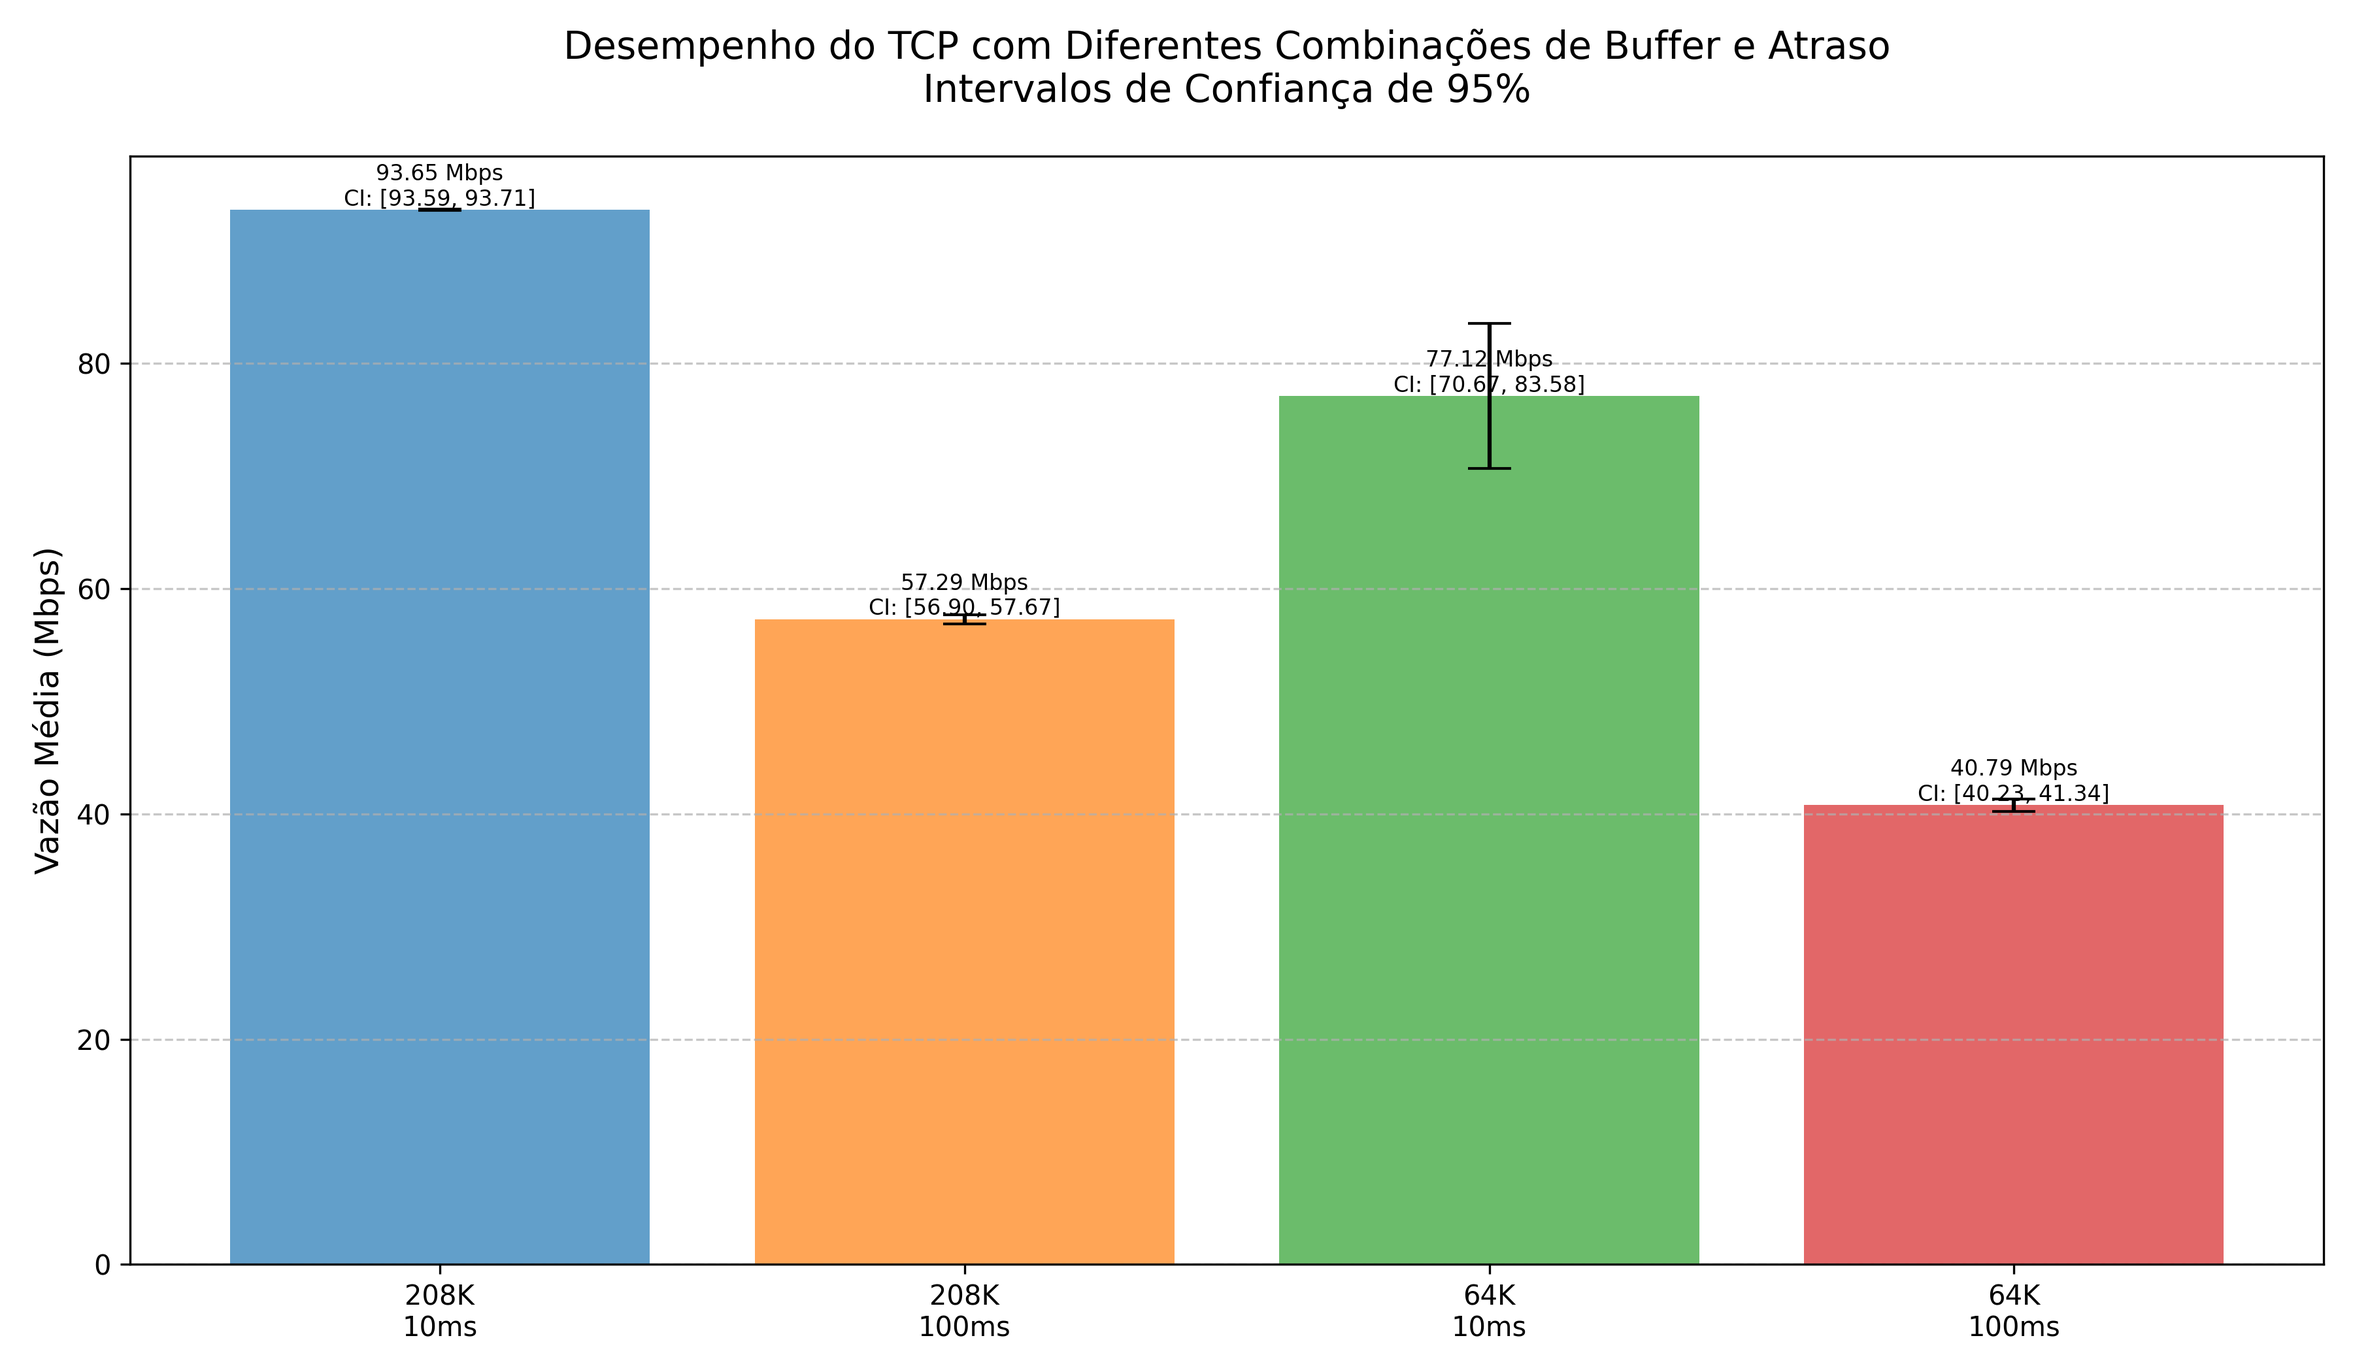
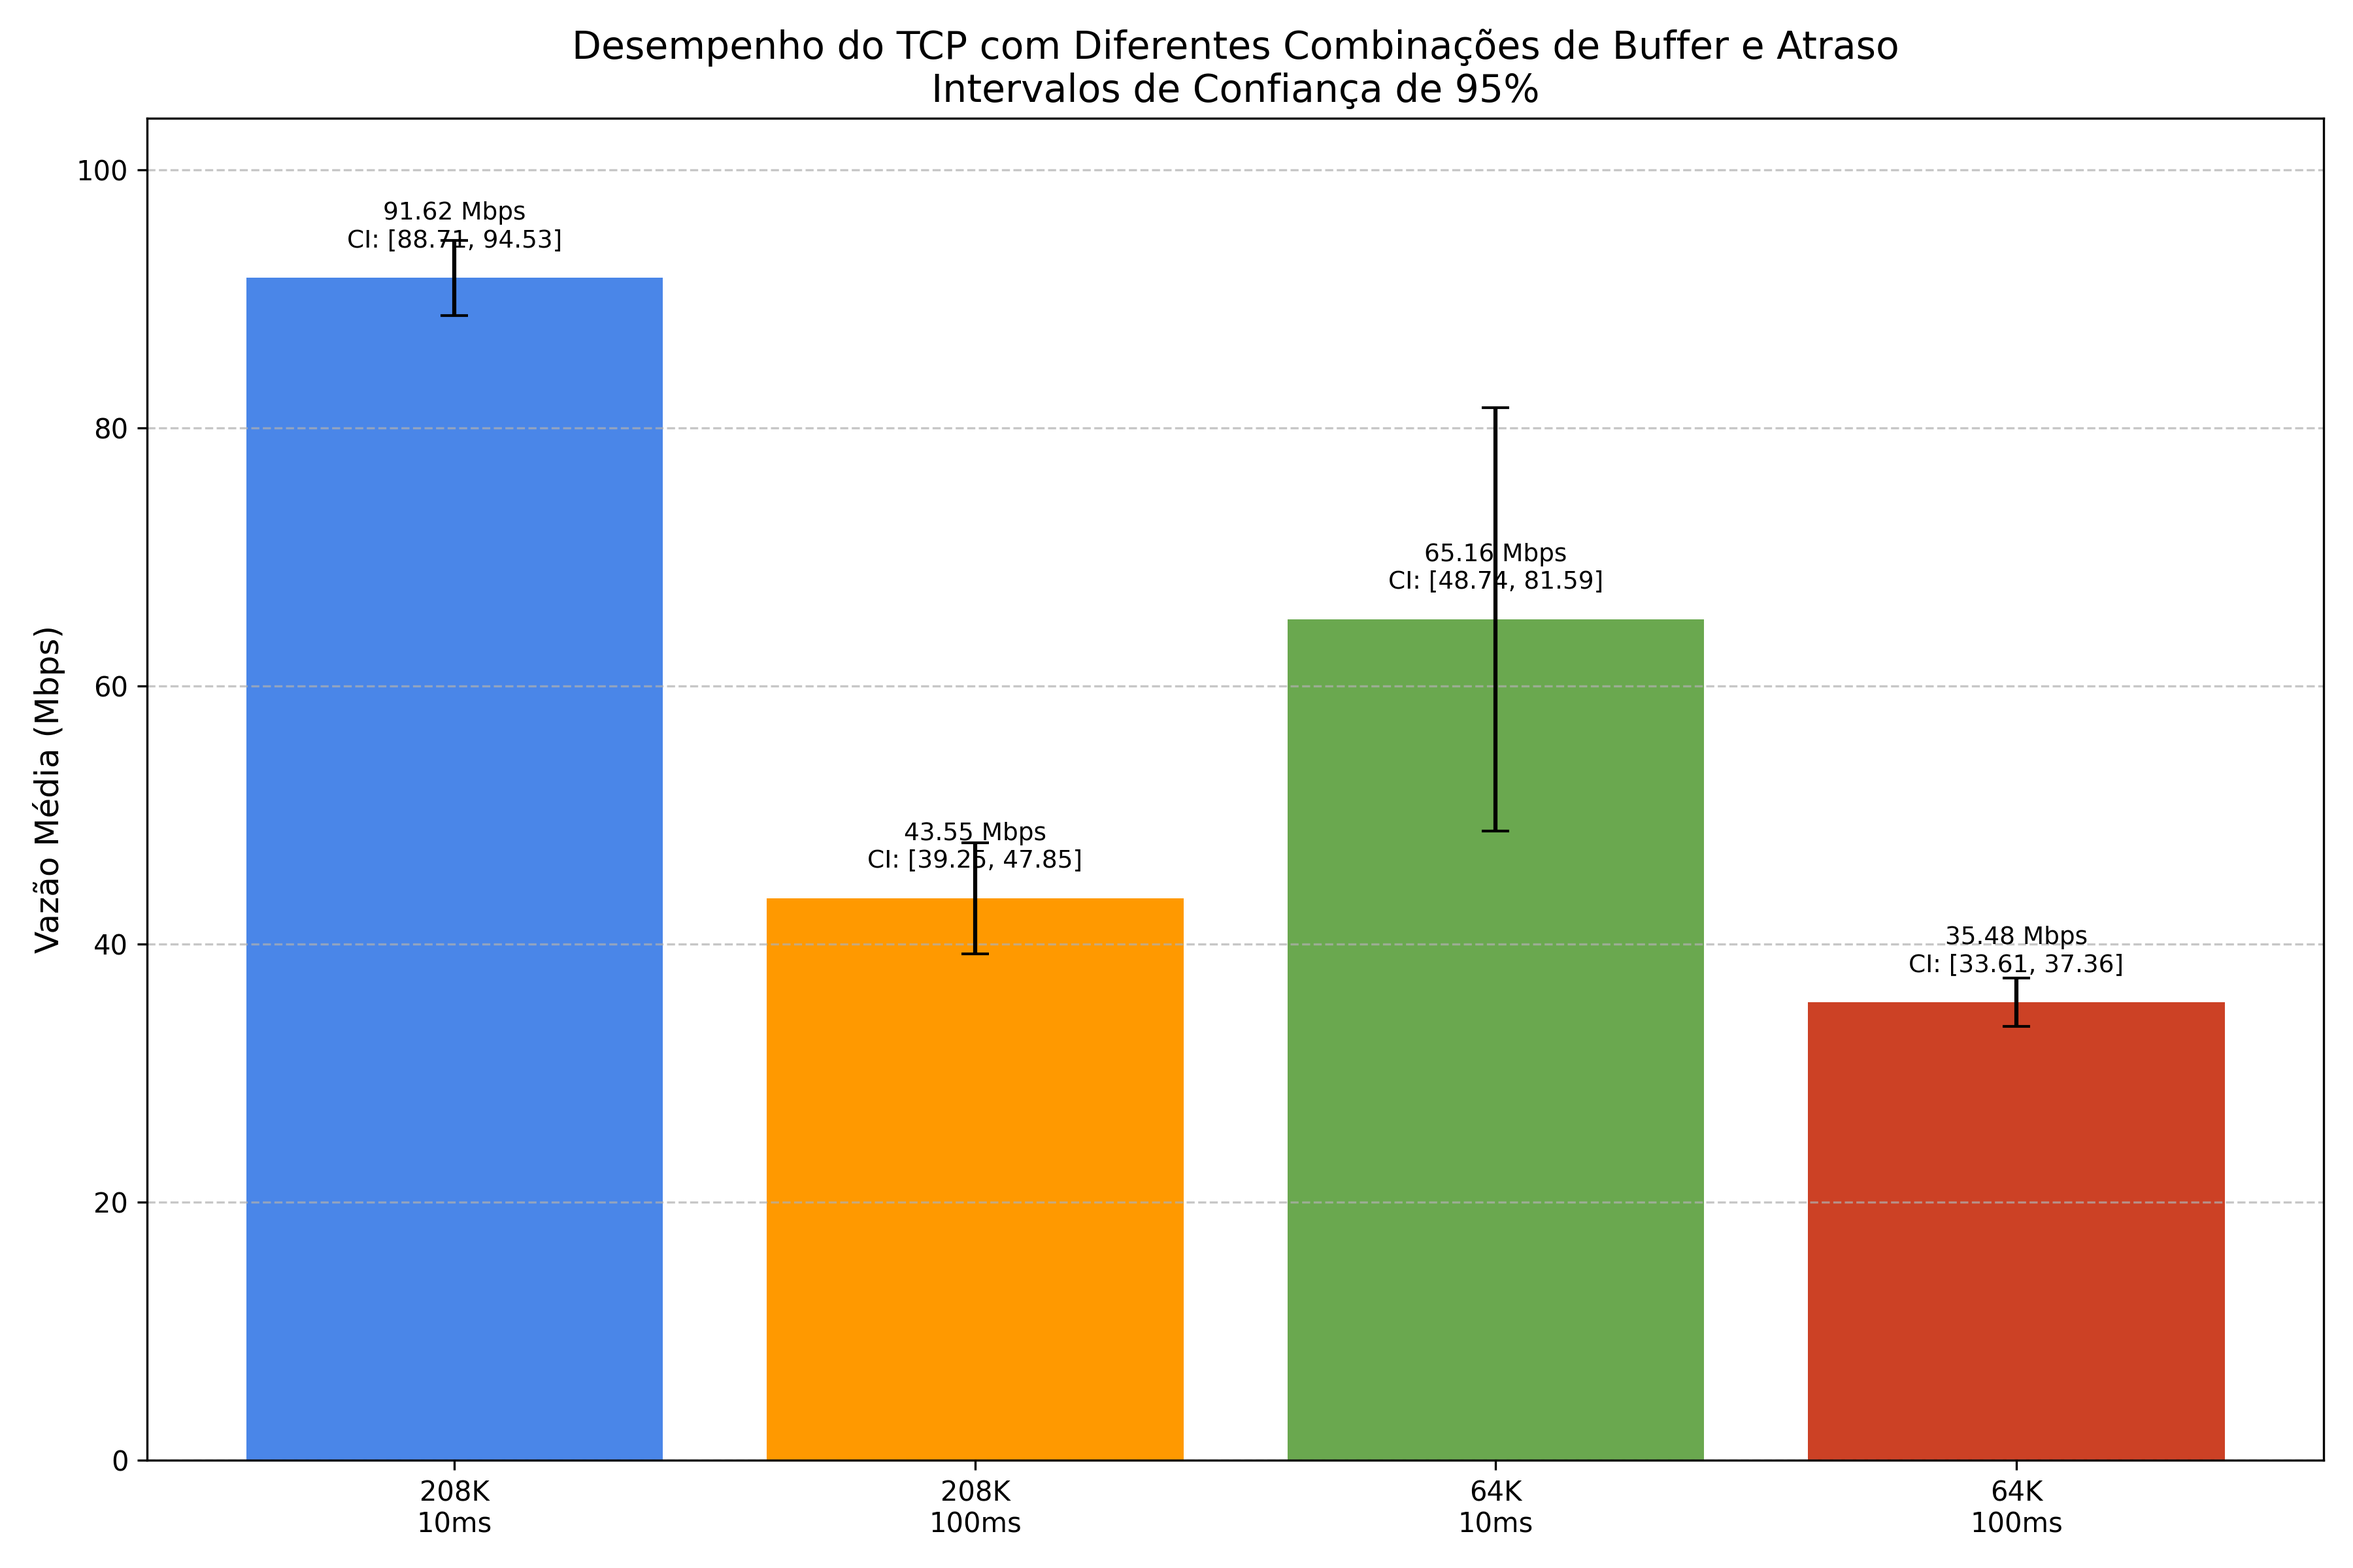
Imagem revisada

diff --git a/script_resultados.py b/script_resultados.py
@@ -1,38 +1,81 @@
-import os
-import csv
+import pandas as pd
+import matplotlib.pyplot as plt
+import numpy as np
+import scipy.stats as stats
 
-saida_dir = "resultados_iperf"
+# Carregar os dados do CSV
+df = pd.read_csv('resultados_consolidados.csv')
 
-def parse_iperf_output(file_path):
-    with open(file_path, 'r') as f:
-        lines = f.readlines()
+# Converter throughput para Mbps (dividir por 1000000)
+df['throughput_mbps'] = df['throughput_mbps'] / 1000000
 
-    for line in reversed(lines):
-        if "," in line:
-            try:
-                throughput = float(line.strip().split(",")[8])
-                return throughput
-            except:
-                continue
-    return None
+# Agrupar por buffer e delay, e calcular média e desvio padrão
+group = df.groupby(['buffer', 'delay'])
+means = group['throughput_mbps'].mean().reset_index()
+std_devs = group['throughput_mbps'].std().reset_index()
 
-def salvar_resultados_csv(diretorio, arquivo_saida="resultados_consolidados.csv"):
-    resultados = []
-    for arquivo in os.listdir(diretorio):
-        if arquivo.endswith(".txt"):
-            partes = arquivo.replace(".txt", "").split("_")
-            buffer = partes[1].replace("buffer", "")
-            delay = partes[2].replace("delay", "")
-            repeticao = partes[3].replace("rep", "")
-            caminho = os.path.join(diretorio, arquivo)
-            vazao = parse_iperf_output(caminho)
-            if vazao:
-                resultados.append([buffer, delay, repeticao, vazao])
+# Calcular o tamanho de cada grupo (número de amostras)
+sample_counts = group.size().reset_index(name='count')
 
-    with open(arquivo_saida, "w", newline="") as csvfile:
-        writer = csv.writer(csvfile)
-        writer.writerow(["buffer", "delay", "repeticao", "throughput_mbps"])
-        writer.writerows(resultados)
+# Mesclar os dados
+data = pd.merge(means, std_devs, on=['buffer', 'delay'], suffixes=('_mean', '_std'))
+data = pd.merge(data, sample_counts, on=['buffer', 'delay'])
 
-# Chamada principal
-salvar_resultados_csv(saida_dir)
+# Calcular margem de erro para IC de 95%
+data['margin_of_error'] = stats.t.ppf(0.975, data['count']-1) * data['throughput_mbps_std'] / np.sqrt(data['count'])
+data['ci_lower'] = data['throughput_mbps_mean'] - data['margin_of_error']
+data['ci_upper'] = data['throughput_mbps_mean'] + data['margin_of_error']
+
+# Criar rótulos para o eixo X combinando buffer e delay
+data['label'] = data['buffer'] + '\n' + data['delay'].astype(str) + 'ms'
+
+# Ordenar dados para o gráfico (ordem decrescente de velocidade para melhor visualização)
+# Primeiro ordenar todos por buffer
+buffer_order = ['208K', '64K']
+data['sort_buffer'] = pd.Categorical(data['buffer'], categories=buffer_order, ordered=True)
+
+# Depois ordenar por delay dentro de cada buffer
+data = data.sort_values(by=['sort_buffer', 'delay'])
+
+# Definir cores para as barras
+colors = ['#4a86e8', '#ff9900', '#6aa84f', '#cc4125']
+
+# Criar o gráfico
+plt.figure(figsize=(12, 8))
+
+# Posições das barras no eixo X
+x_pos = np.arange(len(data))
+
+# Criar barras
+bars = plt.bar(x_pos, data['throughput_mbps_mean'], color=colors)
+
+# Adicionar barras de erro para o intervalo de confiança
+yerr = data['margin_of_error']
+plt.errorbar(x_pos, data['throughput_mbps_mean'], yerr=yerr, fmt='none', color='black', capsize=5)
+
+# Configurar rótulos e título
+plt.ylabel('Vazão Média (Mbps)', fontsize=12)
+plt.title('Desempenho do TCP com Diferentes Combinações de Buffer e Atraso\nIntervalos de Confiança de 95%', fontsize=14)
+plt.xticks(x_pos, data['label'], fontsize=10)
+plt.grid(axis='y', linestyle='--', alpha=0.7)
+
+# Definir limites do eixo Y começando do zero
+plt.ylim(0, max(data['throughput_mbps_mean'] + data['margin_of_error']) * 1.1)
+
+# Adicionar valores e intervalo de confiança acima das barras
+for i, bar in enumerate(bars):
+    mean_value = data.iloc[i]['throughput_mbps_mean']
+    ci_lower = data.iloc[i]['ci_lower']
+    ci_upper = data.iloc[i]['ci_upper']
+    plt.text(bar.get_x() + bar.get_width()/2, mean_value + 2,
+             f"{mean_value:.2f} Mbps\nCI: [{ci_lower:.2f}, {ci_upper:.2f}]",
+             ha='center', va='bottom', fontsize=9)
+
+# Ajustar o layout para evitar sobreposição
+plt.tight_layout()
+
+# Salvar o gráfico
+plt.savefig('grafico_vazao.png', dpi=300)
+
+# Mostrar o gráfico
+plt.show()

diff --git a/script.py b/script.py
@@ -12,7 +12,7 @@ repeticoes = 8
 pc_cliente = "pc2"
 pc_servidor = "pc4"
 ip_servidor = "10.0.4.20"
-enlace = "router2:pc2"
+enlace = "router1:pc2"
 
 saida_dir = "resultados_iperf"
 os.makedirs(saida_dir, exist_ok=True)
